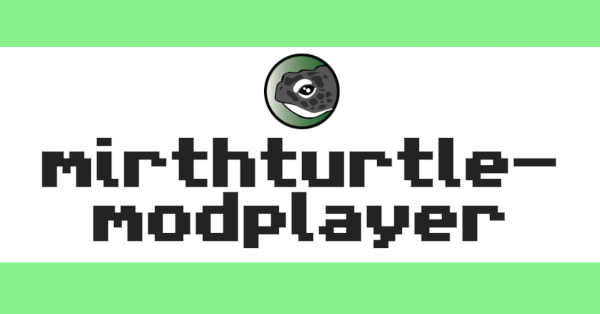
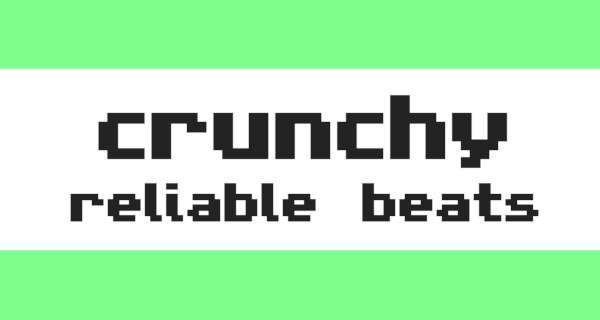
Crunchy rebrand

diff --git a/index.html b/index.html
@@ -2,23 +2,23 @@
 <html class="no-js">
 
 <head>
-  <title>Mirth Turtle's MOD Player</title>
+  <title>Crunchy Reliable Beats</title>
 
   <meta charset="utf-8">
   <meta http-equiv="X-UA-Compatible" content="IE=edge,chrome=1">
   <meta content="width=device-width, initial-scale=1.0" name="viewport">
 
-  <meta name="description" content="An Amiga MOD jukebox with an awesome curated playlist.">
+  <meta name="description" content="An awesome retro jukebox you can tune to your mood! The perfect soundtrack for completing tasks or even a party.">
 
-  <meta content="Mirth Turtle's MOD Player" property='og:title'>
-  <meta content='https://christiancodes.github.io/mirthturtle-modplayer/' property='og:url'>
-  <meta content='An Amiga MOD jukebox with an awesome curated playlist.' property='og:description'>
+  <meta content="Crunchy Reliable Beats" property='og:title'>
+  <meta content='https://christiancodes.github.io/crunchy-reliable-beats/' property='og:url'>
+  <meta content='An awesome retro jukebox you can tune to your mood! The perfect soundtrack for completing tasks or even a party.' property='og:description'>
   <meta content='summary_large_image' name='twitter:card'>
   <meta content='@mirthturtle' name='twitter:site'>
-  <meta content="Mirth Turtle's MOD Player" name='twitter:title'>
-  <meta content='An Amiga MOD jukebox with an awesome curated playlist.' name='twitter:description'>
-  <meta content='https://github.com/christiancodes/mirthturtle-modplayer/raw/7798235e97a2a98269ad9415fb0da9ea0d040b66/img/modplayer-cover.png' property='og:image'>
-  <meta content='https://github.com/christiancodes/mirthturtle-modplayer/raw/7798235e97a2a98269ad9415fb0da9ea0d040b66/img/modplayer-cover.png' name='twitter:image'>
+  <meta content="Crunchy Reliable Beats" name='twitter:title'>
+  <meta content='An awesome retro jukebox you can tune to your mood! The perfect soundtrack for completing tasks or even a party.' name='twitter:description'>
+  <meta content='https://github.com/christiancodes/crunchy-reliable-beats/raw/7798235e97a2a98269ad9415fb0da9ea0d040b66/img/modplayer-cover.png' property='og:image'>
+  <meta content='https://github.com/christiancodes/crunchy-reliable-beats/raw/7798235e97a2a98269ad9415fb0da9ea0d040b66/img/modplayer-cover.png' name='twitter:image'>
 
   <link rel="stylesheet" href="css/normalize.min.css">
   <link rel="stylesheet" href="css/modplayer.css">
@@ -35,10 +35,8 @@
 <body>
   <div id="content">
     <div id="headline" class="banner">
-      <a href='https://www.mirthturtle.com' target='_blank'>
-        <img id="mirthturtle-logo" src="img/mirthturtle.png" alt="mirthturtle logo" class="mirthturtle-logo"/>
-      </a>
-      <h1>mirthturtle-modplayer</h1>
+      <h1 class="crunchy">crunchy</h1>
+      <h1>reliable beats</h1>
     </div>
 
     <div id="metadata" class="banner">
@@ -85,13 +83,20 @@
       <input id="sharelink-box" class="hidden" type="textarea"></input>
     </div>
 
-    <div id="footer" class="banner">
-      <a id="source-link" href="https://github.com/christiancodes/mirthturtle-modplayer" target="_blank">Source</a>
-      <span>•</span>
-      <a id="day-night-link" class="day-night-link" href="javascript: void(0)">☾</a>
-      <span>•</span>
-      <a id="playlist-link" href="https://modarchive.org/index.php?request=view_member_favourites&query=93325" target="_blank">Playlist</a>
-    </div>
+    <footer>
+      <div class="banner footer-line">
+        <a id="source-link" href="https://github.com/christiancodes/crunchy-reliable-beats" target="_blank">Source</a>
+        <span>•</span>
+        <a id="day-night-link" class="day-night-link" href="javascript: void(0)">☾</a>
+        <span>•</span>
+        <a id="playlist-link" href="https://modarchive.org/index.php?request=view_member_favourites&query=93325" target="_blank">Playlist</a>
+      </div>
+
+      <a href='https://www.mirthturtle.com' target='_blank'>
+        <img id="mirthturtle-logo" src="img/mirthturtle.png" alt="mirthturtle logo" class="mirthturtle-logo"/>
+      </a>
+
+    </footer>
   </div>
 </body>
 

diff --git a/css/modplayer.css b/css/modplayer.css
@@ -45,10 +45,28 @@ a:active {
   color: #5581ff;
 }
 
+footer {
+  text-align: center;
+  margin-top: 30px;
+}
+
+.footer-line {
+  display: flex;
+  align-items: center;
+  justify-content: center;
+  padding-bottom: 10px;
+  height: 45px;
+  padding-left: 5px; /* slightly off center looks better w/ logo */
+}
+
+.footer-line>* {
+  margin: 0 10px;
+}
+
 .mirthturtle-logo {
-  width: 100px;
-  height: 100px;
-  margin-bottom: 10px;
+  width: 50px;
+  height: 50px;
+  padding-bottom: 10px;
 }
 
 .banner {
@@ -59,7 +77,7 @@ a:active {
   margin-top: 2.4rem;
 }
 
-#headline, #metadata, #controls, #footer {
+#headline, #metadata, #controls, #footer-banner {
   text-align: center;
 }
 
@@ -72,14 +90,29 @@ a:active {
 #headline h1 {
   margin: 0;
 }
+
+/* Smaller screen header */
 @media only screen and (max-width: 45rem) {
   #headline h1 {
-    font-size: 1.5rem;
+    max-width: 400px;
+    font-size: 2.2rem;
+    line-height: 1.2em;
+    margin: 12px auto 0;
+  }
+  .crunchy {
+    font-size: 3.7em !important;
   }
 }
+/* Larger screen header */
 @media only screen and (min-width: 45rem) {
   #headline h1 {
-    font-size: 4rem;
+    font-size: 3rem;
+    max-width: 800px;
+    margin: 0 auto;
+    line-height: 1.3em;
+  }
+  .crunchy {
+    font-size: 5em !important;
   }
 }
 
@@ -227,10 +260,6 @@ a:active {
 .lock-icon {
   width: 13px;
   height: 13px;
-}
-
-#footer {
-  padding-bottom: 20px;
 }
 
 .hidden {

diff --git a/js/modplayer.js b/js/modplayer.js
@@ -1,6 +1,6 @@
 var dev = document.location.host == "localhost";
 
-var shareLink = `http${dev ? '://localhost' : 's://christiancodes.github.io'}/mirthturtle-modplayer/`;
+var shareLink = `http${dev ? '://localhost' : 's://christiancodes.github.io'}/crunchy-reliable-beats/`;
 
 var modArchiveDownloadLink = "https://api.modarchive.org/downloads.php?moduleid=";
 var modArchivePageLink = "https://modarchive.org/index.php?request=view_by_moduleid&query=";

diff --git a/README.md b/README.md
@@ -1,11 +1,18 @@
-# Mirth Turtle's MOD Player
+# Crunchy Reliable Beats
 
-A more convenient way to listen to my [list of favorites on MOD Archive](https://modarchive.org/index.php?request=view_member_favourites&query=93325). Uses [Chiptune2.js](https://github.com/deskjet/chiptune2.js).
+200+ of the crunchiest, MOST reliable beats from the golden age of Amiga MODs. Demoscene, cracktro, house, chiptune, BGM and more, featuring timeless community favourites and plenty of deep cuts.
 
-**[Give it a try here](https://christiancodes.github.io/mirthturtle-modplayer/).**
+## The perfect soundtrack for any task!
 
-## Licenses
+Tune your experience to your state of mind: finely control the pitch and tempo to match your current rhythm of thought, and zone into your work like never before. Better than Adderall? That's what some listeners have asked.
+
+Try it out for yourself – put on a pair of wireless noise-cancelling headphones and **[get something done.](https://christiancodes.github.io/crunchy-reliable-beats/)**
+
+
+## Credits & Licenses
+
+Built with [Chiptune2.js](https://github.com/deskjet/chiptune2.js).
 
 All code in this project is MIT (X11) licensed. The only exception are the compiled libopenmpt parts which remain under the OpenMPT project BSD license.
 
-Song files are pulled directly from Mod Archive as permitted under the [Mod Archive Distribution license](https://modarchive.org/index.php?terms-upload).
+Song files are pulled directly from Mod Archive as permitted under the [Mod Archive Distribution license](https://modarchive.org/index.php?terms-upload). Eternal thanks to the many MOD artists featured. [View the playlist on Mod Archive](https://modarchive.org/index.php?request=view_member_favourites&query=93325) to see more info on individual tracks.
